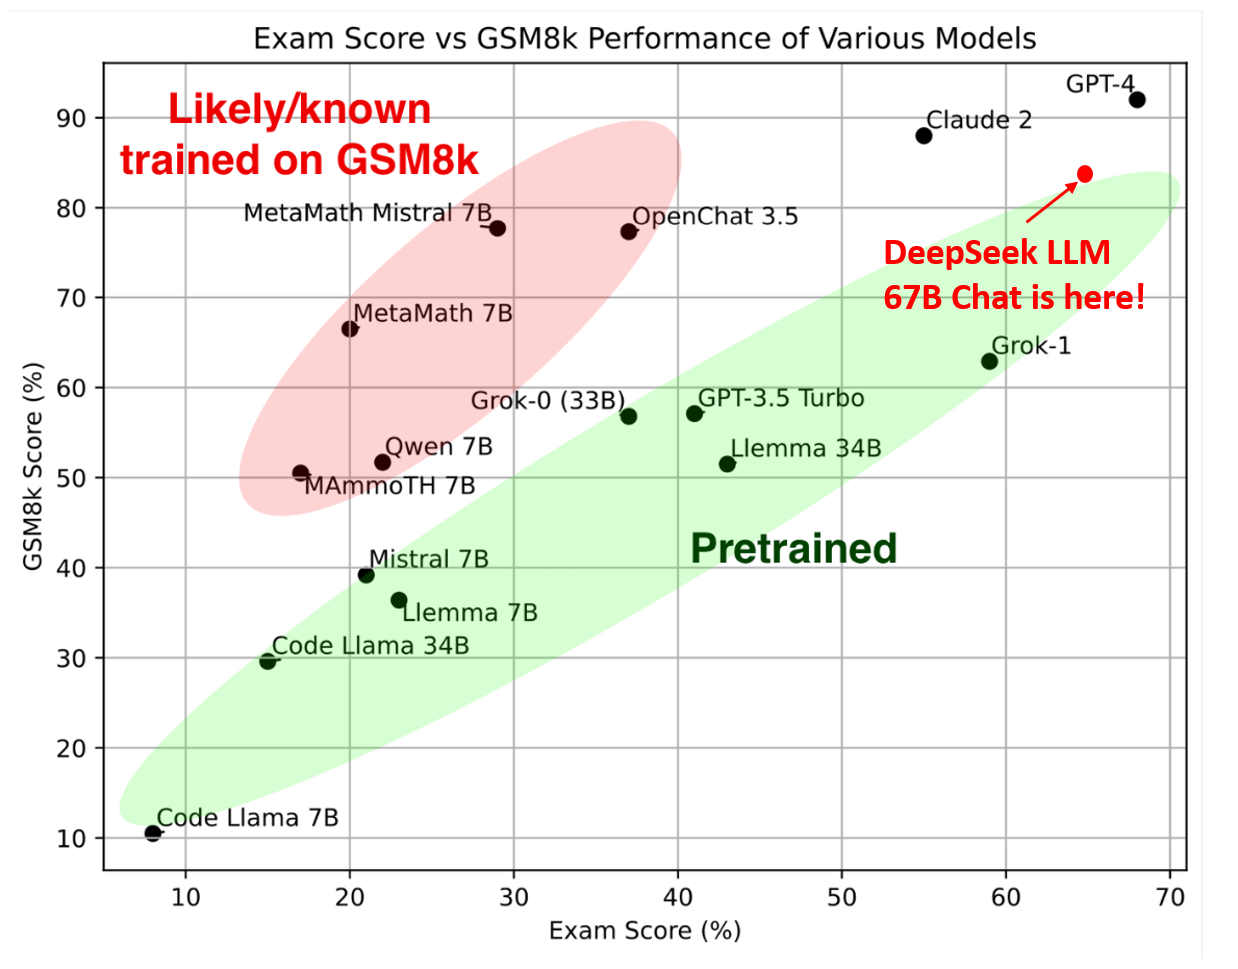
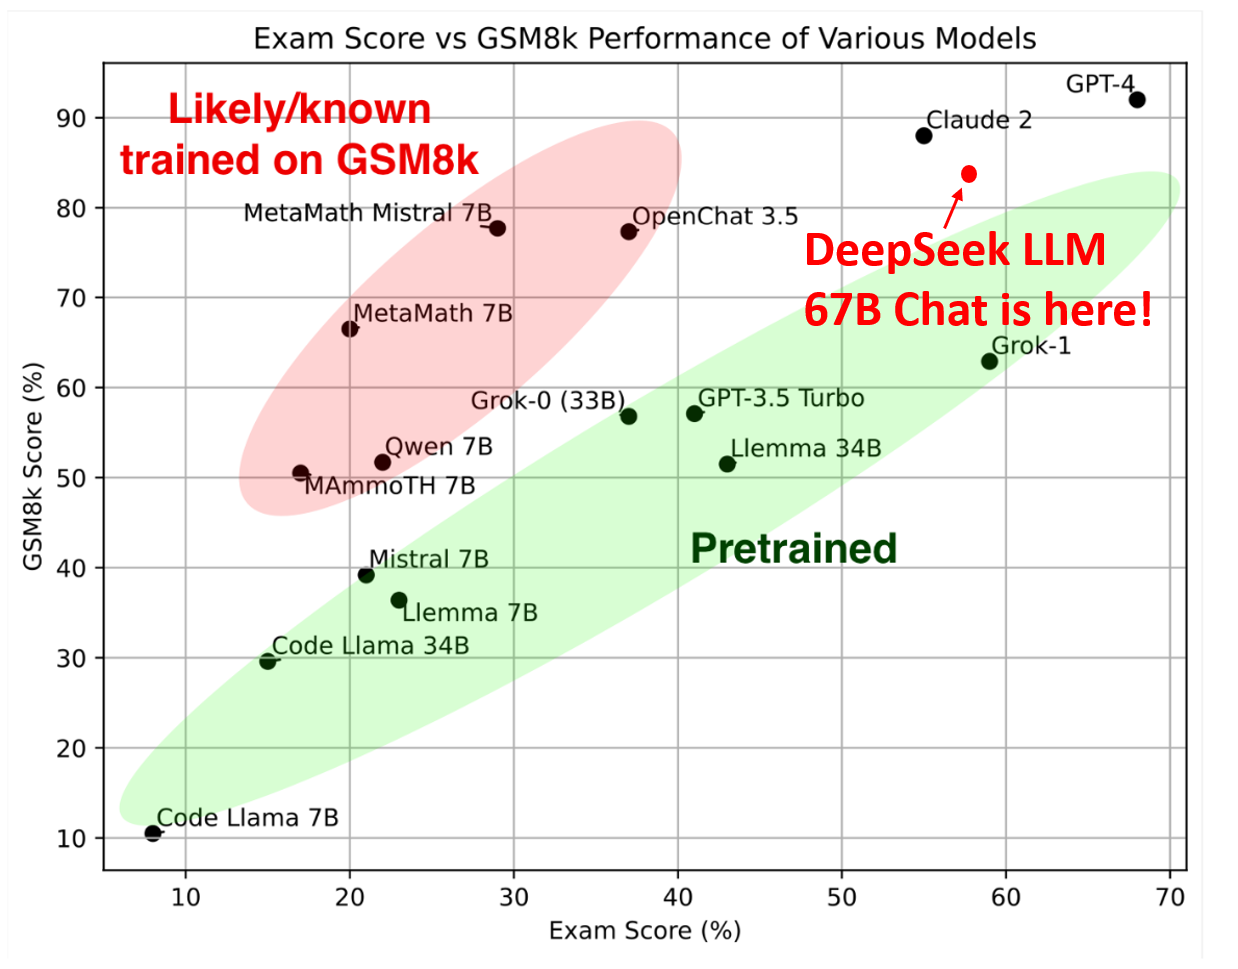
Fixmath (#14)
* fix math hungarian exam eval error

* fix yi math score

Changed region(s): [[0.6446, 0.1548, 0.9515, 0.3406], [0.7674, 0.1548, 0.7981, 0.2167]]

diff --git a/README.md b/README.md
@@ -126,7 +126,7 @@ In line with Grok-1, we have evaluated the model's mathematical capabilities usi
   <img src="images/mathexam.png" alt="result" width="70%">
 </div>
 
-**Remark:** Some results are obtained by DeepSeek LLM authors, while others are done by Grok-1 authors. We found some models count the score of the last question (Llemma 34b and Mammoth) while some (MetaMath-7B) are not in the original evaluation. In our evaluation, we count the last question score. Evaluation details are [here](https://github.com/deepseek-ai/DeepSeek-LLM/tree/HEAD/evaluation/hungarian_national_hs_solutions).
+**Remark:** We have rectified an error from our initial evaluation. In this revised version, we have omitted the lowest scores for questions 16, 17, 18, as well as for the aforementioned image.   Evaluation details are [here](https://github.com/deepseek-ai/DeepSeek-LLM/tree/HEAD/evaluation/hungarian_national_hs_solutions).
 
 
 ---

diff --git a/evaluation/more_results.md b/evaluation/more_results.md
@@ -22,7 +22,7 @@
 
 |                Model                | DeepSeek LLM 67B Chat | Qwen-14B-Chat | ChatGLM3-6B | Baichuan2-Chat-13B | Yi-Chat-34B | GPT-3.5-Turbo | Grok-1 | Claude 2 | GPT-4 |
 |:-----------------------------------:|:---------------------:|:-------------:|:-----------:|:------------------:|:-----------:|:-------------:|:------:|:--------:|:-----:|
-| Hungarian National High-School Exam |        **65**         |     38.5      |     37      |        20.5        |     44      |      41       |   59   |    55    |  68   |
+| Hungarian National High-School Exam |        **58**         |     36.5      |     32      |        19.5        |     39     |      41       |   59   |    55    |  68   |
 
 
 |               Model                | Qwen-14B-Chat | ChatGLM3-6B | Baichuan2-Chat-13B | Yi-Chat-34B | PaLM2 Small | DeepSeek LLM 67B Chat | GPT-4 |
